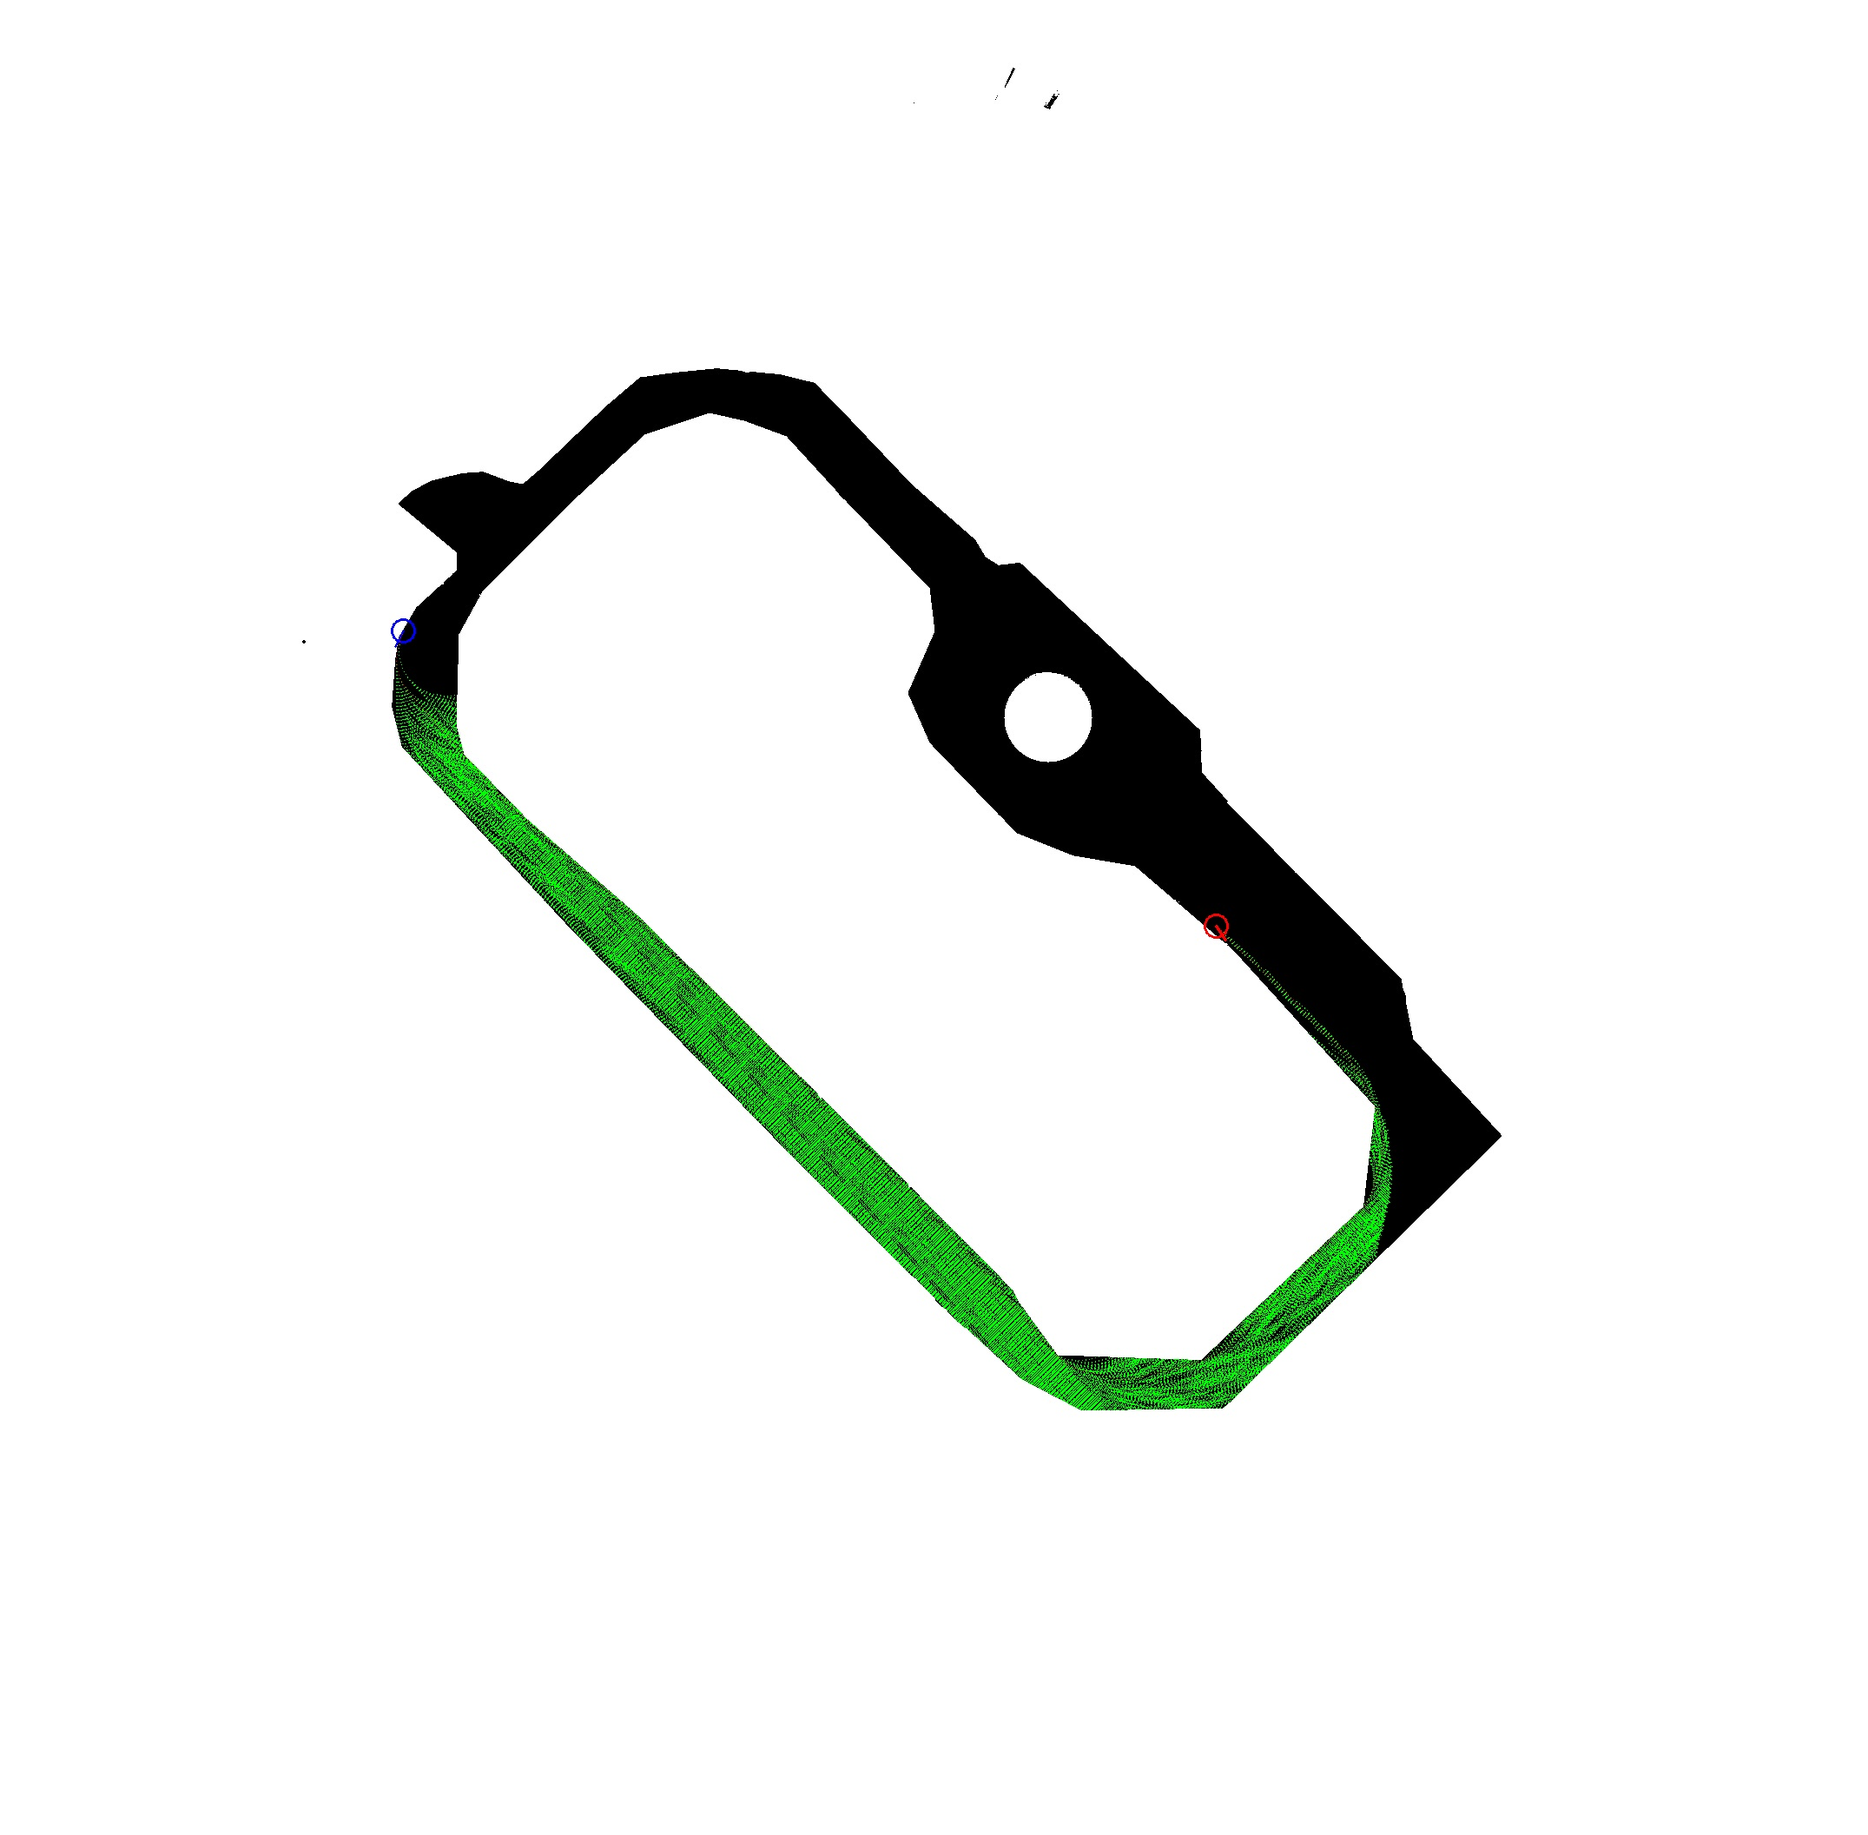
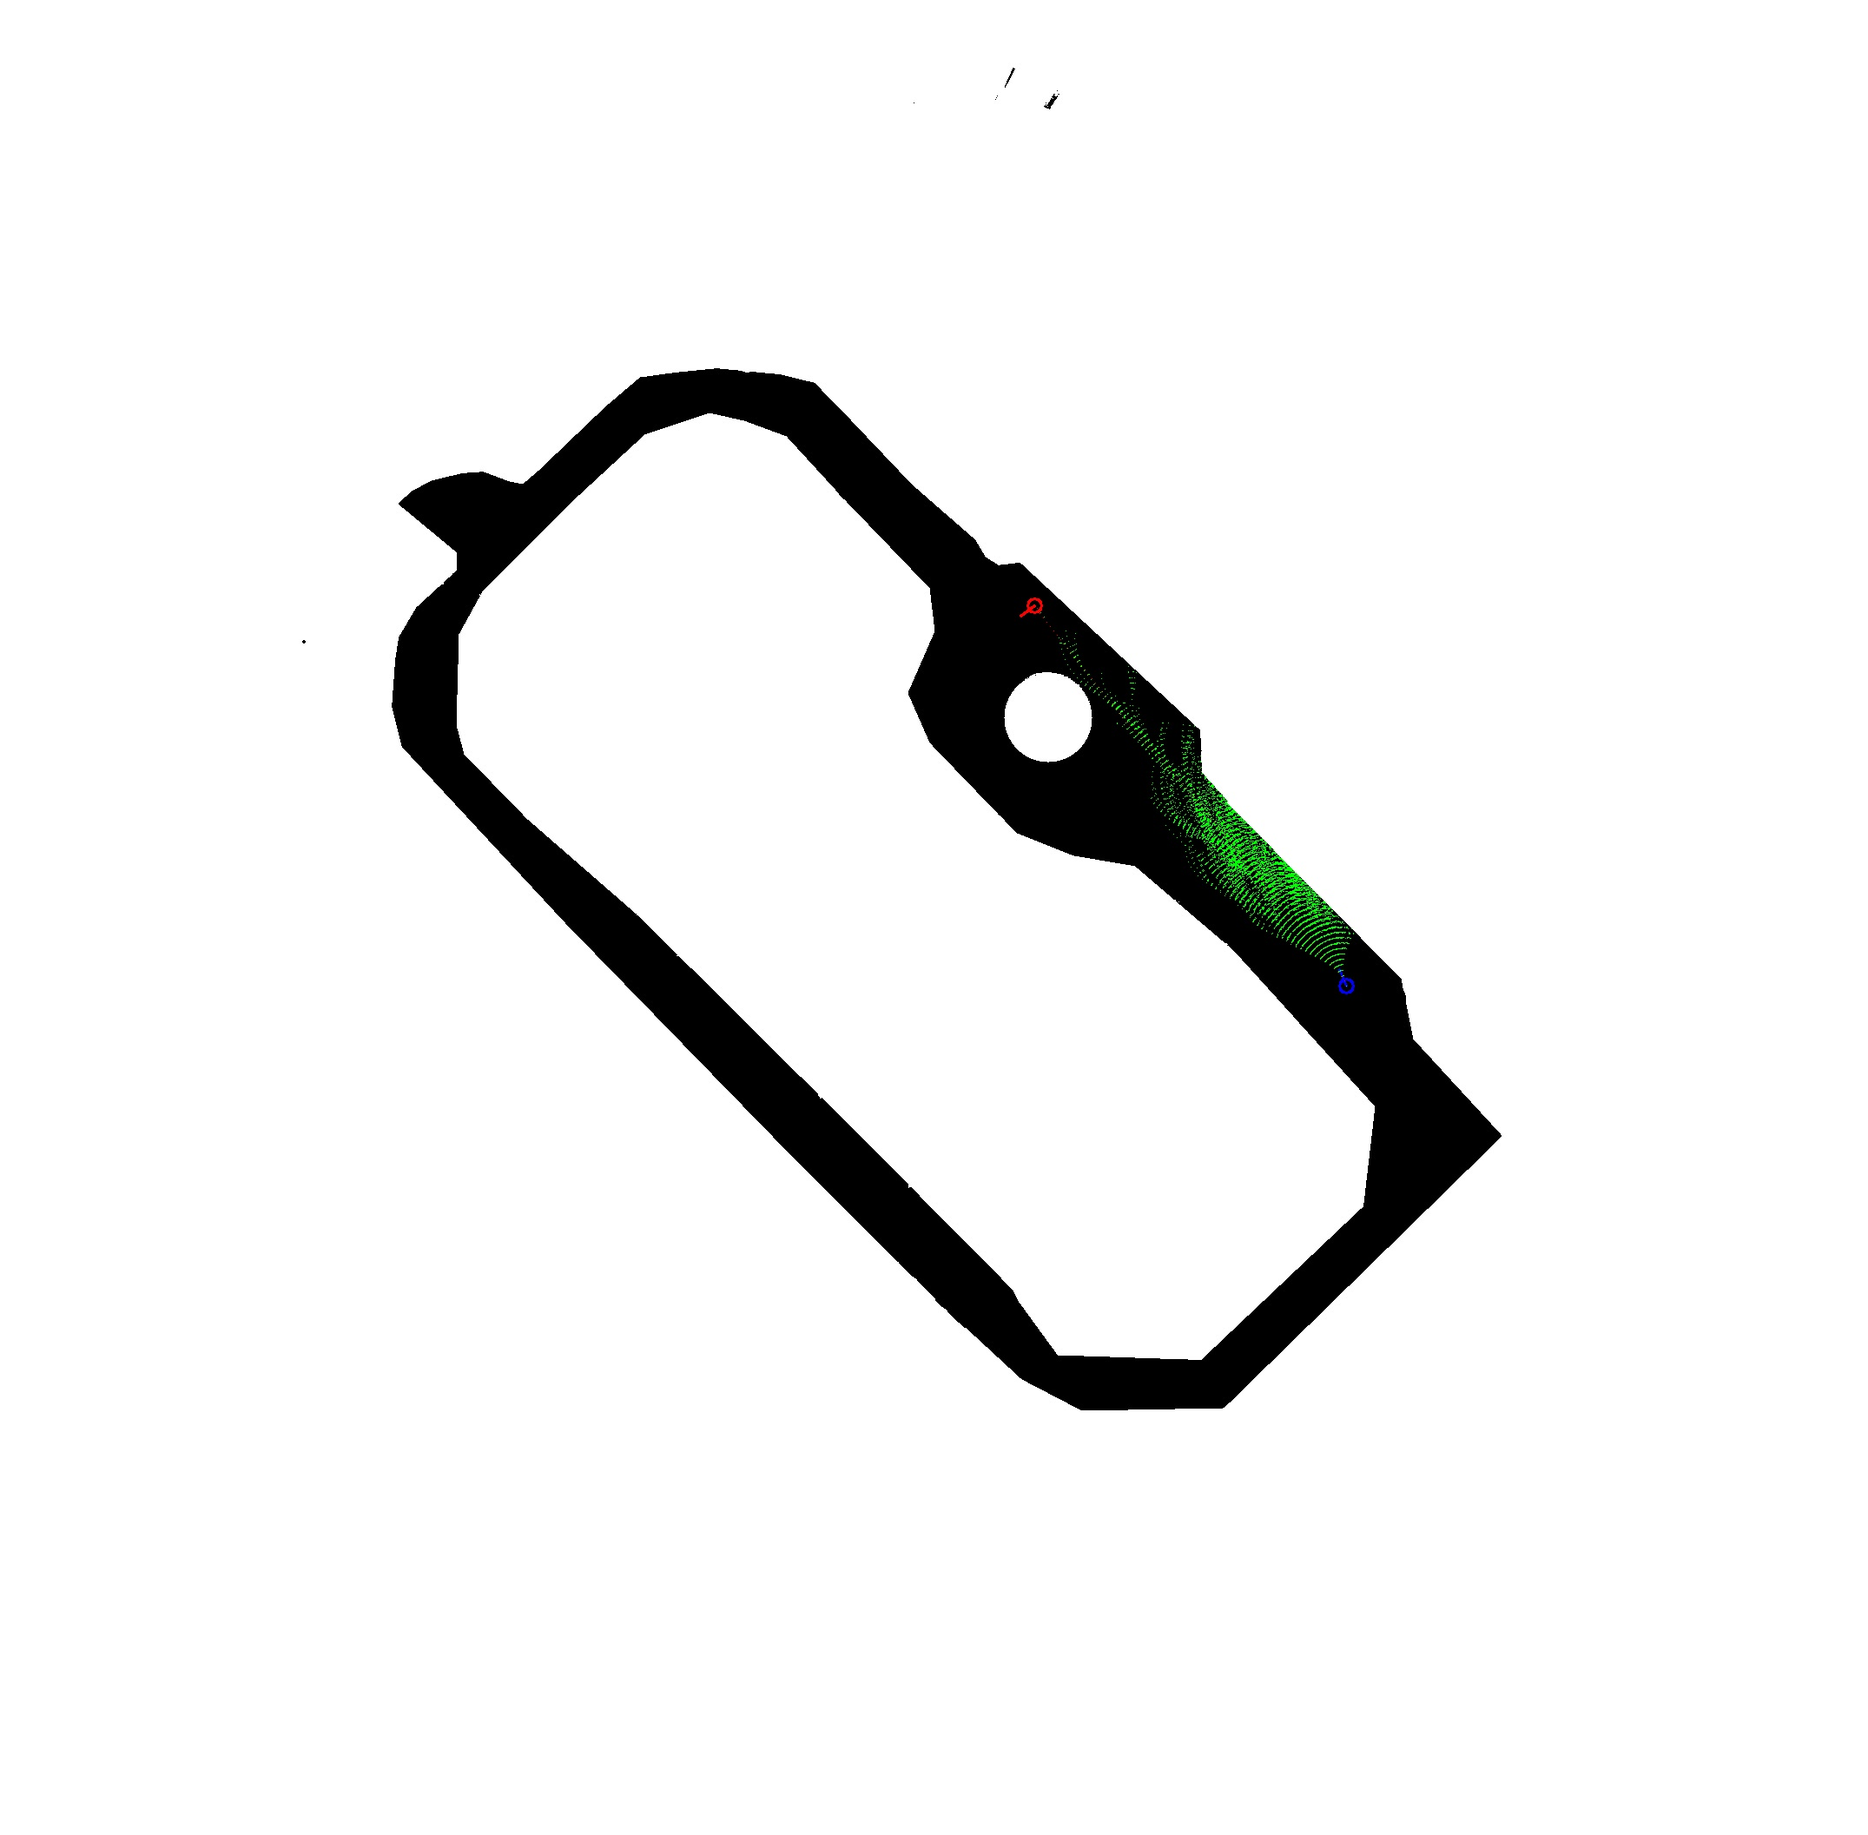
modified:   CMakeLists.txt 	modified:   assets/test1.jpg 	modified:   assets/test3.jpg 	modified:   include/a_star.h 	modified:   src/a_star.cc

Changed region(s): [[0.218, 0.3748, 0.7476, 0.7809], [0.623, 0.4061, 0.7164, 0.531]]

diff --git a/src/a_star.cc b/src/a_star.cc
@@ -69,7 +69,27 @@ lmk_astar::ROSMapData::ROSMapData():metadata_flag(false),mapdata_flag(false) {
   map_height = map_length = -1;
 }
 // functions in class OpenList
-lmk_astar::OpenList::OpenList() {}
+// binary heap
+lmk_astar::OpenList::OpenList():heap_size_(0), cost_infinity_(5000.0) {};
+void lmk_astar::OpenList::min_heapify(int index) {
+  int left((index+1)*2),right((index+1)*2+1), smallest(index+1);
+  VehiclePose swap_temp;
+  while (index < heap_size_) {
+    left = (index+1)*2;
+    right = (index+1)*2+1;
+    if (left <= heap_size_ && openlist_data_[left-1] < openlist_data_[index]) {
+      smallest = left;
+    } else if (right <= heap_size_ && openlist_data_[right-1] < openlist_data_[smallest-1]) {
+      smallest = right;
+    } else {}
+    if ((index+1) != smallest) {
+      swap_temp = openlist_data_[index];
+      openlist_data_[index] = openlist_data_[smallest-1];
+      openlist_data_[smallest-1] = swap_temp;
+      index = smallest-1;
+    } else {break;}
+  }
+};
 // if -1 returned, target pose is not found
 inline int lmk_astar::OpenList::find(VehiclePose search_pose) const {
   int size = openlist_data_.size();
@@ -81,26 +101,18 @@ inline int lmk_astar::OpenList::find(VehiclePose search_pose) const {
   return -1;
 }
 void lmk_astar::OpenList::insert(VehiclePose insert_pose) {
-  int size = openlist_data_.size();
-  int top(0), bottom(size-1), index(0);
-  if (size == 0 || insert_pose < openlist_data_[size - 1] || (size == 1 && insert_pose < openlist_data_[0])) {
-    openlist_data_.push_back(insert_pose);
-    return;
-  } else if (insert_pose > openlist_data_[0] || (size == 1 && openlist_data_[0] < insert_pose)) {
-    openlist_data_.insert(openlist_data_.begin(), insert_pose);
-    return;
-  } else {}
-  while ((bottom - top) > 1) {
-    index = (top+bottom)/2;
-    if (insert_pose < openlist_data_[index]) {
-      top = index + 1;
-    } else {bottom = index;}
+  heap_size_ = heap_size_ + 1;
+  VehiclePose temp_pose(-1.0, -1.0, -1.0, cost_infinity_, cost_infinity_);
+  if (heap_size_ > openlist_data_.size()) {
+    openlist_data_.push_back(temp_pose);
+  } else {
+    openlist_data_[heap_size_-1] = temp_pose;
   }
-  openlist_data_.insert(openlist_data_.begin()+bottom, insert_pose);
+  decrease(heap_size_-1, insert_pose);
 }
 // keywords "inline" should be put here, it will not work if placed in the .h file, function statement
 inline bool lmk_astar::OpenList::check_nearer(int index, VehiclePose check_pose) {
-  if (index < 0 || index > (openlist_data_.size()-1)) {
+  if (index < 0 || index > (heap_size_-1)) {
     ROS_ERROR("error: invalid index, could not compare");
     return false;
   }
@@ -109,61 +121,27 @@ inline bool lmk_astar::OpenList::check_nearer(int index, VehiclePose check_pose)
   } else {return false;}
 }
 inline void lmk_astar::OpenList::pop() {
-  if (openlist_data_.empty()) {
+  if (heap_size_ < 1) {
     ROS_ERROR("error: empty openlist, could not pop");
     return;
   }
-  openlist_data_.pop_back();
+  openlist_data_[0] = openlist_data_[heap_size_-1];
+  //openlist_data_.pop_back();
+  heap_size_ = heap_size_ - 1;
+  min_heapify(0);
 }
-void lmk_astar::OpenList::change(int index, VehiclePose change_pose) {
-  int size = openlist_data_.size();
-  int top,bottom;
-  if (change_pose.total_cost <0) {
-    ROS_ERROR("error: wrong change pose, invalid total cost");
-    return;
-  } else if (index > (size-1)) {
-    ROS_ERROR("error: invalid index, could not change");
-    return;
-  } else if (size == 0) {
-    ROS_ERROR("error: empty open list, could not change");
-    return;
-  } else if (size == 1) {
-    openlist_data_[0] = change_pose;
-  } else {}
-  // size >= 2, then
-  //openlist_data_[index] = change_pose;
-  //std::sort (openlist_data_.begin(), openlist_data_.end(), sort_cmp);
-  if (change_pose < openlist_data_[index]) {
-    if (index == (size-1) || change_pose < openlist_data_[size-1]) {
-      openlist_data_.erase(openlist_data_.begin()+index);
-      openlist_data_.insert(openlist_data_.end(), change_pose);
-      return;
-    } else if (change_pose > openlist_data_[index + 1]) {
-      openlist_data_[index] = change_pose;
-      return;
-    }
-    top = index;
-    bottom = size-2;
-  } else {
-    if (index == 0 || change_pose > openlist_data_[0]) {
-      openlist_data_.erase(openlist_data_.begin()+index);
-      openlist_data_.insert(openlist_data_.begin(), change_pose);
-      return;
-    } else if (change_pose < openlist_data_[index-1]) {
-      openlist_data_[index] = change_pose;
-      return;
-    }
-    top = 0;
-    bottom = index-1;
+void lmk_astar::OpenList::decrease(int index, VehiclePose change_pose) {
+  openlist_data_[index] = change_pose;
+  VehiclePose temp_pose;
+  while (index > 0 && openlist_data_[(index+1)/2-1] > openlist_data_[index]) {
+    temp_pose = openlist_data_[index];
+    openlist_data_[index] = openlist_data_[(index+1)/2-1];
+    openlist_data_[(index+1)/2-1] = temp_pose;
+    index = (index+1)/2-1;
   }
-  openlist_data_.erase(openlist_data_.begin()+index);
-  while ((bottom-top)>1) {
-    index = (top+bottom)/2;
-    if (change_pose < openlist_data_[index]) {
-      top = index + 1;
-    } else {bottom = index;}
-  }
-  openlist_data_.insert(openlist_data_.begin()+bottom, change_pose);
+}
+bool lmk_astar::OpenList::empty() {
+  return ((heap_size_ > 0) ? false:true);
 }
 inline lmk_astar::VehiclePose lmk_astar::OpenList::top() {
   if (openlist_data_.empty()) {
@@ -171,10 +149,7 @@ inline lmk_astar::VehiclePose lmk_astar::OpenList::top() {
     VehiclePose temp;
     return temp;
   }
-  return openlist_data_.back();
-}
-inline bool lmk_astar::OpenList::empty() {
-  return openlist_data_.empty();
+  return openlist_data_[0];
 }
 // static function, in case std::sort() will be used
 bool lmk_astar::OpenList::sort_cmp(VehiclePose pose1, VehiclePose pose2) {
@@ -191,14 +166,12 @@ lmk_astar::AStar::AStar():astar_nh_("astar_planner"),pi_(3.14159) {
   get_initial();
   //draw_baseimg();
   astar_search();
-  std::cout << std::sin(pi_) << std::endl;
   //LOG(INFO) << "glog set successfully" << std::endl;
 }
 lmk_astar::AStar::~AStar() {}
 // public member function
 // main logic
 void lmk_astar::AStar::astar_search() {
-  // note: there is a implicit type conversion here
   VehiclePose temp_pose(initial_.x_pose, initial_.y_pose, initial_.heading_angle, 0);
   temp_pose.total_cost = temp_pose.cost_g + heuristic_func(temp_pose);
   open_list_.insert(temp_pose);
@@ -207,9 +180,10 @@ void lmk_astar::AStar::astar_search() {
     open_list_.pop();
     // insert into closed list
     map_data_.map_occupancy[temp_pose.y_index][temp_pose.x_index] = 2;
-    closed_list_[temp_pose.y_index][temp_pose.x_index] = temp_pose;
-    if (reach_destination(temp_pose)) {
-      closed_list_[destination_.y_index][destination_.x_index].parent = &(closed_list_[temp_pose.y_index][temp_pose.x_index]);
+    closed_list_.insert(std::pair<std::vector<int>, VehiclePose>({temp_pose.x_index, temp_pose.y_index}, temp_pose));
+    if (reach_destination(temp_pose)) {     
+      destination_.parent = &(closed_list_.find({temp_pose.x_index, temp_pose.y_index})->second);
+      closed_list_.insert(std::pair<std::vector<int>, VehiclePose>({destination_.x_index, destination_.y_index}, destination_));
       path_generator();
       draw_demo();
       return;
@@ -232,7 +206,7 @@ std::vector<std::vector<double>> lmk_astar::AStar::motion_primitive(VehiclePose 
   double temp_angle(0.0);
   for (int i = 0; i < 5; ++i) {
     temp_angle = -total_angle + (total_angle/2.0)*i;
-    temp_storage = tiguan_model_.tiguan_bicycle_module(5.0, temp_angle, 0.08, root_pose_vector);
+    temp_storage = tiguan_model_.tiguan_bicycle_module(8.0, temp_angle, 0.08, root_pose_vector);
     temp_storage[0] = temp_storage[0]/resolution;
     temp_storage[1] = temp_storage[1]/resolution;
     temp_storage[3] = temp_storage[3]/resolution;
@@ -248,7 +222,7 @@ std::vector<std::vector<double>> lmk_astar::AStar::motion_primitive(VehiclePose 
   return neighbour_nodes;
 }
 void lmk_astar::AStar::path_generator() {
-  VehiclePose* route_pointer(&closed_list_[destination_.y_index][destination_.x_index]);
+  VehiclePose* route_pointer(&closed_list_.find({destination_.x_index, destination_.y_index})->second);
   while (route_pointer->parent != nullptr) {
     path_found_.push_back(*route_pointer);
     route_pointer = route_pointer->parent;
@@ -264,7 +238,6 @@ double lmk_astar::AStar::heuristic_func(VehiclePose cal_pose) {
 void lmk_astar::AStar::update_neighbour(VehiclePose& cur_pose) {
   std::vector<std::vector<double>> neighbour_nodes = motion_primitive(cur_pose);
   VehiclePose temp_pose;
-  double cb_cost_g(cur_pose.cost_g);
   int open_index(0);
   for (auto i : neighbour_nodes) {
     temp_pose = {i[1], i[0], i[2]};
@@ -276,18 +249,14 @@ void lmk_astar::AStar::update_neighbour(VehiclePose& cur_pose) {
       temp_pose.cost_g = cur_pose.cost_g + i[3];
       // calculate the heuristic distance and update the current total_cost
       temp_pose.total_cost = heuristic_func(temp_pose) + temp_pose.cost_g;
+      temp_pose.parent = &(closed_list_.find({cur_pose.x_index, cur_pose.y_index})->second);
       // if in openlist: check if its cost_g nearer
       if (map_data_.map_occupancy[temp_pose.y_index][temp_pose.x_index] == 3) {
         open_index = open_list_.find(temp_pose);
         if (open_list_.check_nearer(open_index, temp_pose)) {
-          temp_pose.parent = &(closed_list_[cur_pose.y_index][cur_pose.x_index]);
-          closed_list_[temp_pose.y_index][temp_pose.x_index].parent = temp_pose.parent;
-          open_list_.change(open_index, temp_pose);
+          open_list_.decrease(open_index, temp_pose);
         } else {}
       } else {
-        temp_pose.parent = &(closed_list_[cur_pose.y_index][cur_pose.x_index]);
-        closed_list_[temp_pose.y_index][temp_pose.x_index].parent = temp_pose.parent;
-        map_data_.map_occupancy[temp_pose.y_index][temp_pose.x_index] = 3;
         open_list_.insert(temp_pose);
       }
     }
@@ -329,9 +298,6 @@ void lmk_astar::AStar::acquire_mapdata() {
     } else {ROS_ERROR("error: falided to receive map data");}
     map_data_.map_occupancy = map_copy;
   }
-  VehiclePose temp_pose(-1, -1, -1);
-  std::vector<std::vector<VehiclePose>> temp_closed_list(map_data_.map_height, std::vector<VehiclePose>(map_data_.map_length, temp_pose));
-  closed_list_ = temp_closed_list;
   car_parameters_ = tiguan_model_.get_parameter();
 }
 bool lmk_astar::AStar::reach_destination(VehiclePose temp_pose) {
@@ -386,16 +352,8 @@ void lmk_astar::AStar::draw_demo() {
   ROS_INFO("start drawing pic");
   cv::Mat show_img = cv::imread("/home/mingkun/lmk_ws/src/a_star/assets/map_base_img.jpg");
   cv::Point temp_point, end_point;
-  VehiclePose* route_pointer(&closed_list_[destination_.y_index][destination_.x_index]);
-  for (int i = 0; i < map_data_.map_height; ++i) {
-    for (int j = 0; j < map_data_.map_length; ++j) {
-      if (map_data_.map_occupancy[i][j] == 2) {
-        show_img.at<cv::Vec3b>(i,j)[0] = 0;
-        show_img.at<cv::Vec3b>(i,j)[1] = 255;
-        show_img.at<cv::Vec3b>(i,j)[2] = 0;
-      }
-    }
-  }
+  VehiclePose* route_pointer(&(closed_list_.find({destination_.x_index, destination_.y_index})->second));
+  // draw destination point and initial point
   temp_point.x = destination_.x_index;
   temp_point.y = destination_.y_index;
   end_point.x = temp_point.x + 20*std::cos(destination_.heading_angle);
@@ -408,6 +366,15 @@ void lmk_astar::AStar::draw_demo() {
   end_point.y = temp_point.y + 20*std::sin(initial_.heading_angle);
   cv::circle(show_img, temp_point, 8, cv::Scalar(255, 0, 0), 2);
   cv::line(show_img, temp_point, end_point, cv::Scalar(255, 0, 0), 2);
+  for (int i = 0; i < map_data_.map_height; ++i) {
+    for (int j = 0; j < map_data_.map_length; ++j) {
+      if (map_data_.map_occupancy[i][j] == 2) {
+        show_img.at<cv::Vec3b>(i,j)[0] = 0;
+        show_img.at<cv::Vec3b>(i,j)[1] = 255;
+        show_img.at<cv::Vec3b>(i,j)[2] = 0;
+      }
+    }
+  }
   while (route_pointer->parent != nullptr) {
     show_img.at<cv::Vec3b>(route_pointer->y_index, route_pointer->x_index)[0] = 0;
     show_img.at<cv::Vec3b>(route_pointer->y_index, route_pointer->x_index)[1] = 0;

diff --git a/include/a_star.h b/include/a_star.h
@@ -11,6 +11,7 @@
 #include <cmath>
 #include <chrono>
 #include <random>
+#include <map>
 
 #include <opencv2/core.hpp>
 #include <opencv2/imgcodecs.hpp>
@@ -34,6 +35,7 @@ struct VehiclePose {
   int y_index;
   double cost_g;
   double total_cost;
+  int node_flag;
   VehiclePose* parent;
   bool operator < (const VehiclePose& temp_node) const;
   bool operator > (const VehiclePose& temp_node) const;
@@ -61,10 +63,13 @@ class OpenList {
   void pop();
   void insert(VehiclePose insert_pose);
   bool check_nearer(int index, VehiclePose check_pose);
-  void change(int index, VehiclePose change_pose);
-  VehiclePose top();
+  void decrease(int index, VehiclePose change_pose);
   bool empty();
+  VehiclePose top();
  private:
+  int heap_size_;
+  const double cost_infinity_;
+  void min_heapify(int index);
   static bool sort_cmp(VehiclePose pose1, VehiclePose pose2);
   std::vector<VehiclePose> openlist_data_;
 };
@@ -92,7 +97,7 @@ class AStar {
   std::vector<double> car_parameters_;
   tiguan_movebase::VehicleMoveBase tiguan_model_;
   OpenList open_list_;
-  std::vector<std::vector<VehiclePose>> closed_list_;
+  std::map<std::vector<int>, VehiclePose> closed_list_;
   VehiclePose destination_;
   VehiclePose initial_;
   ROSMapData map_data_;
